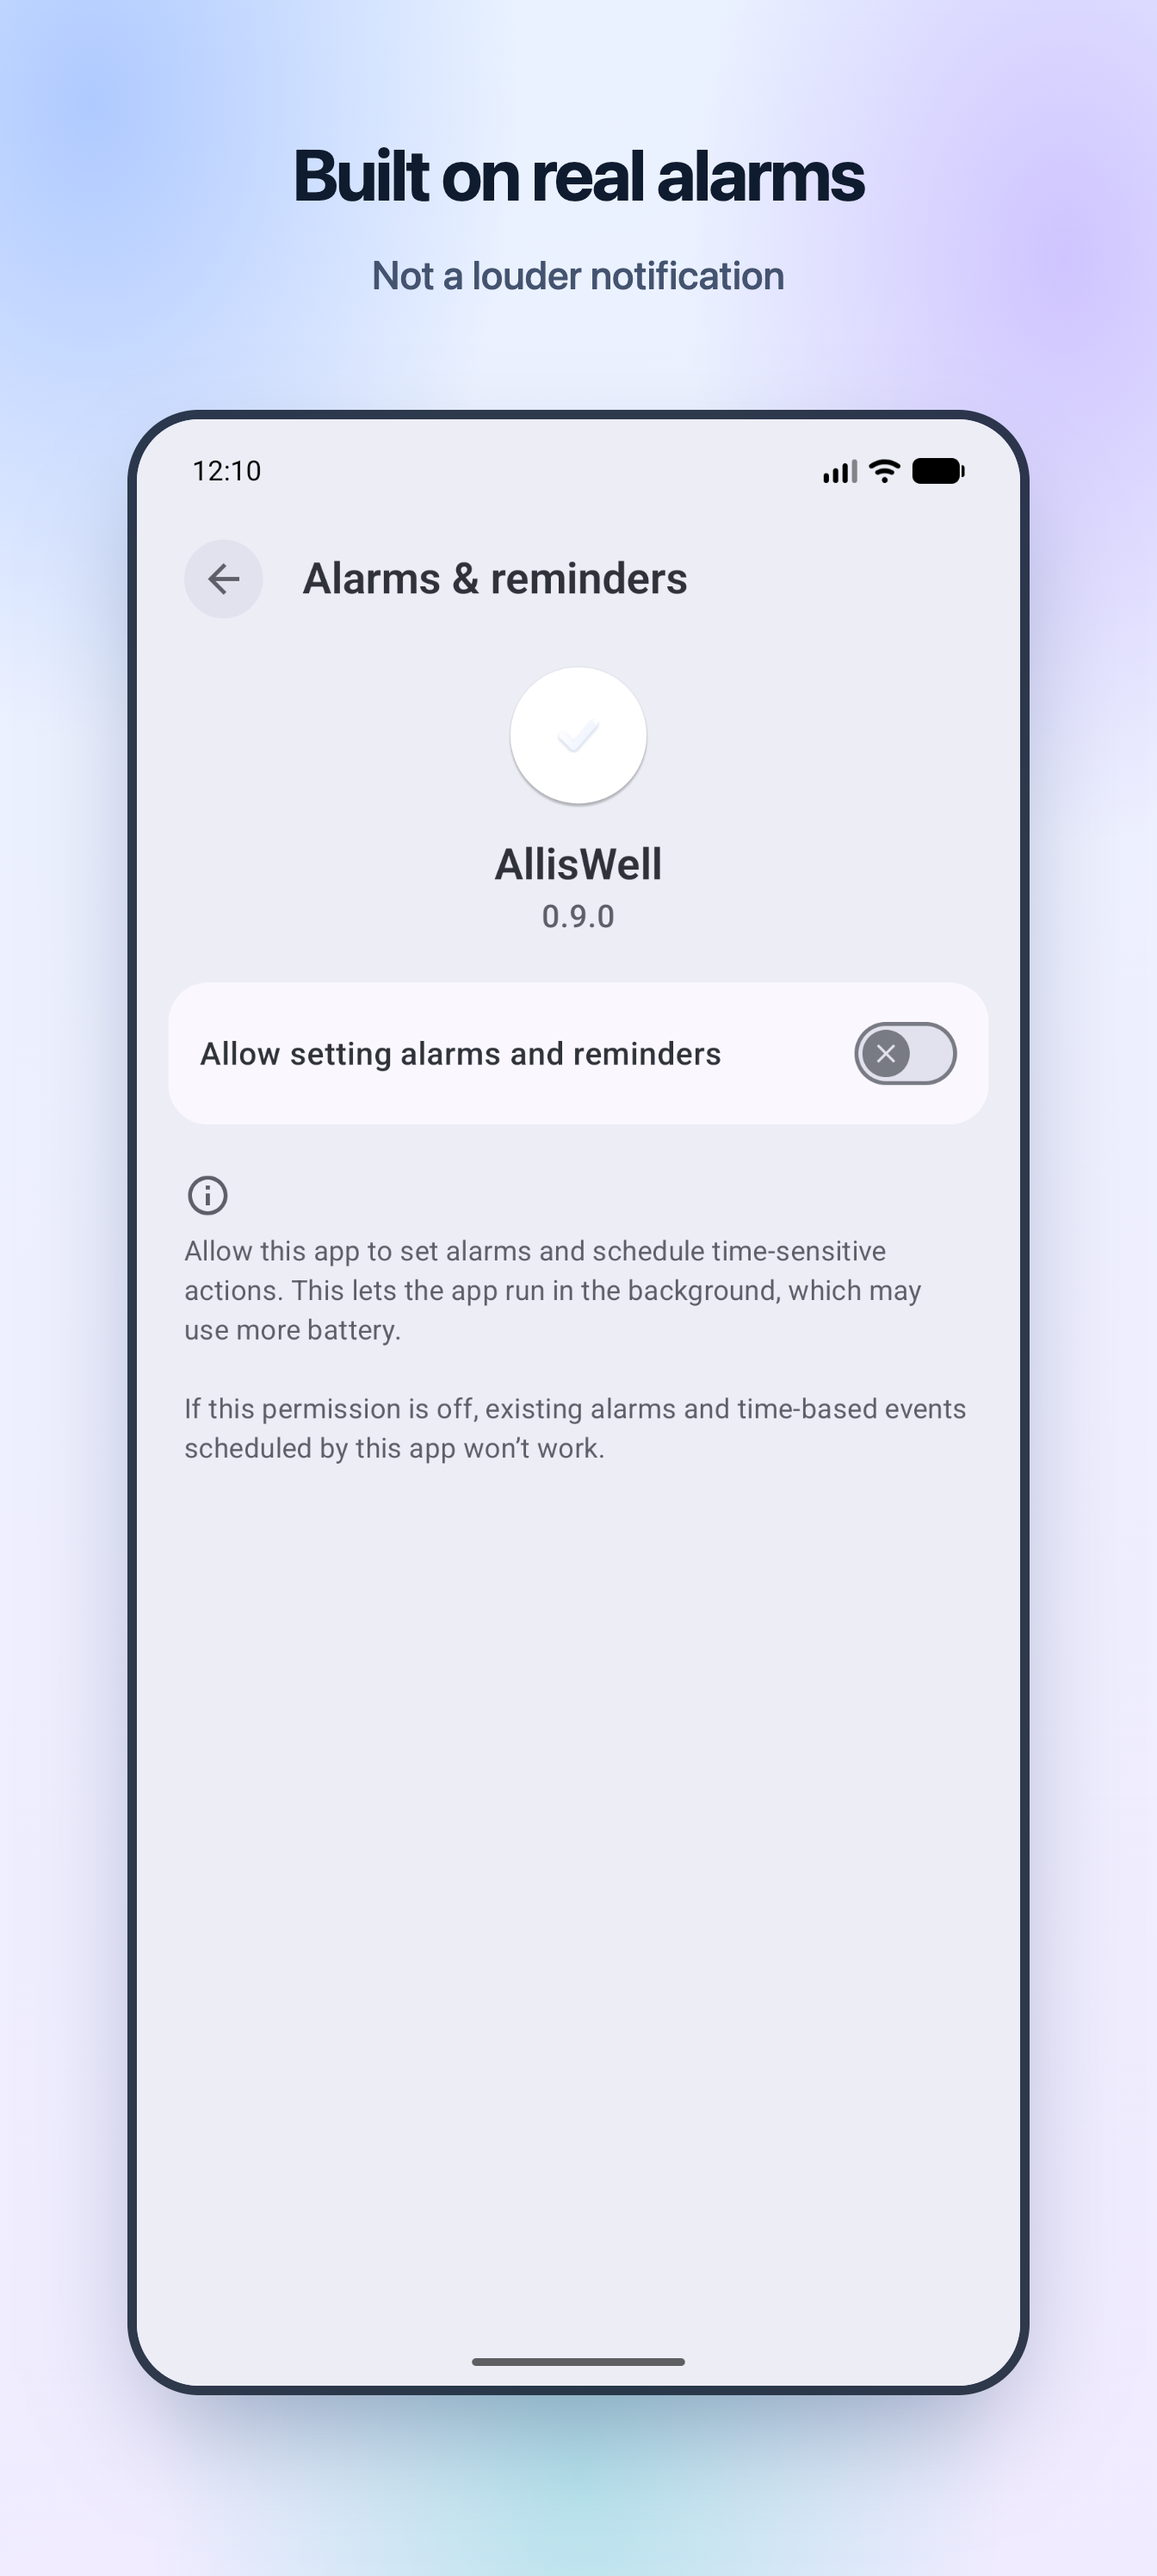
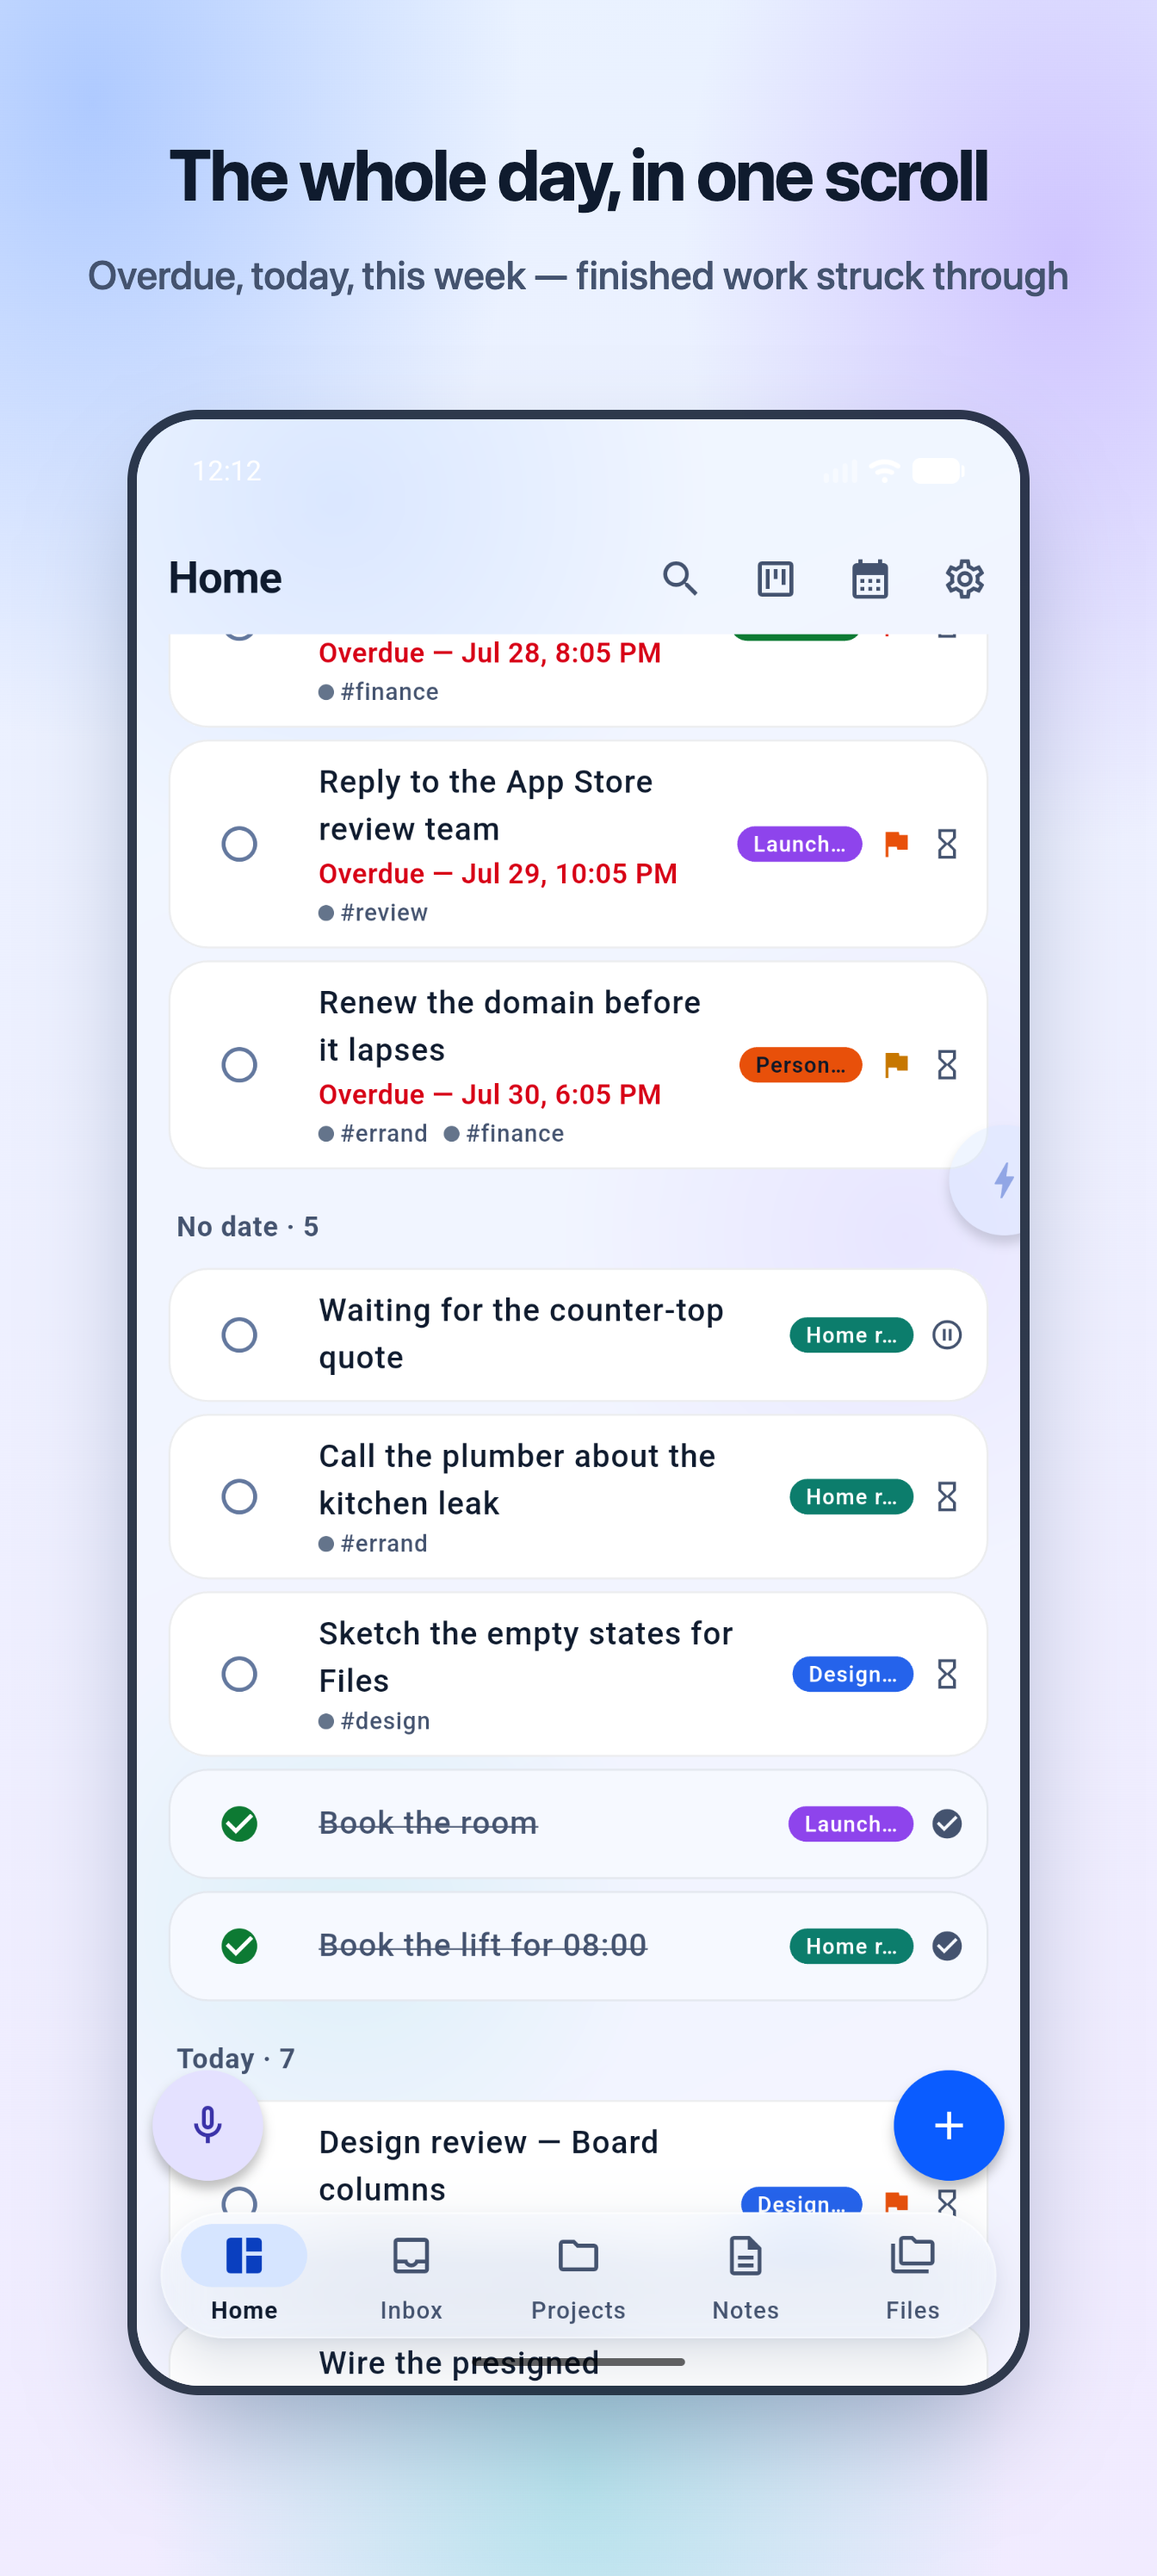
docs: permission dialogs are not product screenshots
The README's alarm section led with three images and two of them were OS
permission screens — iOS asking about alarms, Android's Alarms & reminders
settings page. They show the platform, not the app; a reader learns nothing
about AllisWell from a system dialog. All three are gone from that section, and
the one genuinely good capture — the full-screen alarm actually ringing — moved
into the phone strip, where it replaces a fourth near-identical Home screen.

The same criticism applied to a store slide, which matters more than a README
image: Android's fourth slide was that settings page. It now shows the day's
task list. (The create sheet was tried first and rejected — its capture has the
keyboard up, covering half the frame.)

"Alarms, not notifications" also moves from first to last of the five
differentiators, so the section now opens on recurrence, which proves itself in
a four-line table instead of asking to be believed.

diff --git a/apps/landing/index.html b/apps/landing/index.html
@@ -47,7 +47,7 @@
         "isAccessibleForFree": true,
         "offers": { "@type": "Offer", "price": "0", "priceCurrency": "USD" },
         "description": "Source-available, self-hosted productivity hub: tasks, projects, notes, files, alarm-grade reminders and two-way Google & Apple Calendar sync. Free for personal use.",
-        "softwareVersion": "1.0.2",
+        "softwareVersion": "1.0.3",
         "codeRepository": "https://github.com/mahirozdin/alliswell",
         "publisher": {
           "@type": "Organization",

diff --git a/apps/app/lib/src/core/app_version.dart b/apps/app/lib/src/core/app_version.dart
@@ -7,6 +7,6 @@ import 'package:flutter_riverpod/flutter_riverpod.dart';
 /// It cannot drift: the release workflow refuses to publish a tag unless the
 /// tag, `pubspec.yaml` and this constant all agree — which is exactly the check
 /// the Settings screen's hardcoded "0.1.0" went three releases without.
-const kAppVersion = '1.0.2';
+const kAppVersion = '1.0.3';
 
 final appVersionProvider = Provider<String>((_) => kAppVersion);

diff --git a/apps/landing/src/content.js b/apps/landing/src/content.js
@@ -10,7 +10,7 @@
 export const APP_URL = '/app';
 export const REPO_URL = 'https://github.com/mahirozdin/alliswell';
 export const DOCS_URL = `${REPO_URL}/blob/main/docs`;
-export const VERSION = '1.0.2';
+export const VERSION = '1.0.3';
 
 export const hero = {
   eyebrow: `v${VERSION} · source available · free for personal use`,

diff --git a/README.md b/README.md
@@ -45,7 +45,7 @@ One app for iOS, Android, Web, macOS, Windows &amp; Linux. Your data in your own
 | 🐳 **Self-host** | Live now | One `docker compose up` — [guide below](#-self-hosting-your-server-your-data). |
 | 💻 **Desktop** | Build from source | macOS, Windows and Linux targets build from the same codebase. |
 
-> **Project status — `v1.0.2`, live.** Everything on this page is built, tested
+> **Project status — `v1.0.3`, live.** Everything on this page is built, tested
 > (**748 app tests · 592 backend unit · 58 integration, green**) and deployed to
 > [alliswell.space](https://alliswell.space). Track what's next in
 > [ROADMAP.md](ROADMAP.md) and [docs/STATE.md](docs/STATE.md).
@@ -58,26 +58,7 @@ One app for iOS, Android, Web, macOS, Windows &amp; Linux. Your data in your own
 Everything else here is table stakes. These five are the reasons to switch — and
 each is something the alternatives **cannot** do, not merely haven't yet.
 
-### 1. Alarms, not notifications
-
-A reminder that arrives with a chime is a suggestion. AllisWell's urgent tasks
-ring with a **real alarm sound, through Silent mode and through Focus** (iOS 26
-AlarmKit; Android's `USAGE_ALARM` insistent channel), keep **re-alerting until
-you acknowledge them**, and write a log entry explaining themselves when the OS
-gets in the way.
-
-<p align="center">
-  <img src="screenshots/android/09-alarm-ring.png" width="27%" alt="AllisWell's full-screen alarm on Android: URGENT REMINDER, a task title, an Acknowledge button and snooze presets that each say when they will ring again">
-  &nbsp;
-  <img src="screenshots/ios/alarmkit-permission.png" width="27%" alt="iOS asking to allow AllisWell to schedule alarms that play sounds and appear on screen even when a Focus is active">
-  &nbsp;
-  <img src="screenshots/android/11-alarm-permission.png" width="27%" alt="Android's Alarms and reminders permission screen for AllisWell">
-</p>
-
-<p align="center"><em>Left: the ring screen, with snooze presets that tell you the exact time they will ring again.<br>
-Middle &amp; right: the OS-level permissions this is actually built on — not a louder notification.</em></p>
-
-### 2. Recurrence that doesn't lie
+### 1. Recurrence that doesn't lie
 
 Ask for **the 31st** and RFC 5545 — which is what Google Calendar follows —
 simply **skips** every month without one. Your rent does not skip February.
@@ -102,7 +83,7 @@ rows** (so they show up in search, the calendar and the widget), and an
   <img src="screenshots/ios/08-repeat-dialog.png" width="31%" alt="The Repeat dialog with a Next 5 preview listing the exact upcoming dates">
 </p>
 
-### 3. True two-way calendar sync, to both ecosystems
+### 2. True two-way calendar sync, to both ecosystems
 
 Not an ICS subscription and not a one-way import. Your tasks become **real
 Google Calendar events**; edits you make in Google **come back** through push
@@ -110,14 +91,14 @@ webhooks, incremental sync and etag-based conflict resolution; and your other
 Google events appear **on Home, next to your tasks**. Apple Calendar goes
 through an **EventKit** bridge. Things 3 reads your calendar — it never writes.
 
-### 4. One codebase, six platforms, offline-first
+### 3. One codebase, six platforms, offline-first
 
 A local SQLite replica, a mutation outbox and a revision log mean **everything
 works with the network off** — create, edit, complete, search — and lands on
 every other device within a round-trip when it comes back. Apple's tools are
 Apple-only. Google's need the network more than they admit.
 
-### 5. AI on your terms — including none
+### 4. AI on your terms — including none
 
 **Add AllisWell to the Claude or ChatGPT subscription you already pay for**
 (it is a remote MCP server), or **bring your own key** — Anthropic, OpenAI,
@@ -128,6 +109,16 @@ confirmation; **deletion is closed to AI permanently**; and capture works with
 only the text does.
 
 [How AI works →](docs/AI.md) &nbsp;·&nbsp; [Set up the MCP connector →](docs/MCP.md)
+
+### 5. Alarms, not notifications
+
+A reminder that arrives with a chime is a suggestion. AllisWell's urgent tasks
+ring with a **real alarm sound, through Silent mode and through Focus** (iOS 26
+AlarmKit; Android's `USAGE_ALARM` insistent channel), keep **re-alerting until
+you acknowledge them**, and offer snooze presets that each tell you the exact
+time they will ring again. When the OS gets in the way — a battery manager, a
+revoked permission — the app writes a log entry explaining itself, so
+"it didn't ring" is a question with an answer.
 
 ---
 
@@ -161,10 +152,10 @@ only the text does.
   &nbsp;
   <img src="screenshots/android/01-home.png" width="23%" alt="AllisWell Home on Android">
   &nbsp;
-  <img src="screenshots/android/10-home-dark.png" width="23%" alt="AllisWell Home on Android in dark mode">
+  <img src="screenshots/android/09-alarm-ring.png" width="23%" alt="AllisWell's full-screen urgent reminder on Android: an Acknowledge button and snooze presets that each say the exact time they will ring again">
 </p>
 
-<p align="center"><sub>iPhone 17 Pro Max · Pixel 9 Pro XL · light and dark · every one a real capture from a running app, not a mock-up.<br>
+<p align="center"><sub>iPhone 17 Pro Max · Pixel 9 Pro XL · light, dark, and an alarm actually going off · every one a real capture from a running app, not a mock-up.<br>
 How they are produced: <a href="docs/SCREENSHOTS.md">docs/SCREENSHOTS.md</a></sub></p>
 
 ---
@@ -177,16 +168,16 @@ How they are produced: <a href="docs/SCREENSHOTS.md">docs/SCREENSHOTS.md</a></su
 - 🗂 **Projects** — colours, favourites, archiving, a Notion-style README note as the overview, and per-project Tasks / Notes / Files tabs.
 - 🏷 **Tags &amp; priorities** — type `#tags` inline (auto-create, colours, fold-matched suggestions) and set `none → urgent` priority. Subtasks and checklists inside a task.
 - 🔔 **Alarm-grade reminders** — exact-minute delivery, **urgent alarms through Silent mode &amp; Focus**, a re-alert-until-acknowledged chain you can tune, snooze presets (5 m / 30 m / 1 h / tomorrow / custom) that each say when they'll ring, **mute one task's alarms** without completing it, your own ringtone, an **alarm log**, and a privacy mode that hides task content on the lock screen.
-- 🔁 **Recurring tasks that survive a short month** — see [§2 above](#2-recurrence-that-doesnt-lie).
+- 🔁 **Recurring tasks that survive a short month** — see [§1 above](#1-recurrence-that-doesnt-lie).
 - 🔎 **Instant search** — case- **and accent-insensitive** across the Latin alphabets ("muller" finds _Müller_, "cafe" finds _café_), ranked title → tag → body, running locally over the on-device replica, so it works **offline**. The folding is the app's own, so results never depend on your database's collation.
 - 📝 **Notes &amp; documents** — rich-text (Quill Delta) notes with inline images/video, links to tasks and projects, pin/archive, card grid or list, and Markdown export.
-- 📅 **True two-way calendar sync** — see [§3 above](#3-true-two-way-calendar-sync-to-both-ecosystems). Every task is on the calendar, and it is **not a setting**.
+- 📅 **True two-way calendar sync** — see [§2 above](#2-true-two-way-calendar-sync-to-both-ecosystems). Every task is on the calendar, and it is **not a setting**.
 - 📎 **Attachments &amp; Files** — attach any file to tasks, notes and projects, plus a global **Files** section with nestable folders — stored in **Cloudflare R2 / any S3** via presigned URLs (the API never proxies your bytes).
 - 🔄 **Local-first realtime sync** — offline by default: a mutation outbox, a revision log, idempotent push with field-level last-write-wins, and a Socket.IO channel that fans changes to every device within a round-trip.
 - ✅ **Finish things visibly** — a completed task stays on today's list, struck through and calm, until the next midnight; everything older lives in **Settings ▸ Completed**, a day-headed timeline you can scroll back through.
 - 🗑 **Delete like you expect** — swipe a row from the right, it half-opens, and the red **Delete** is what deletes. Tasks, notes, projects and files, with an **Undo** that works by not having written anything yet.
 - ⚡ **Quick access** — a personal shortcut list for the projects, tasks, notes, folders, files and links you actually live in, with your own emoji, colour and order. A **sidebar section** on desktop and web, a popover on narrow windows, and a **draggable floating button** on phones. Yours alone: shortcuts never leak to other members of a shared workspace.
-- 🤖 **AI, on your terms (optional)** — see [§5 above](#5-ai-on-your-terms--including-none).
+- 🤖 **AI, on your terms (optional)** — see [§4 above](#4-ai-on-your-terms--including-none).
 - 🖥 **Home-screen widgets** — iOS, Android &amp; macOS widgets that mirror your Home buckets, show **how many tasks today actually holds**, and (iOS 17+/Android) let you tick one off **without opening the app** (device QA pending).
 - 🌐 **Localisation** — ships in English and Turkish, auto-detected from your system; adding a language is dropping in one JSON file.
 - 🔓 **Self-hosted &amp; private** — your MySQL, your server, one `docker compose up`. Free for personal use ([licence](#-licence--commercial-use)).

diff --git a/CHANGELOG.md b/CHANGELOG.md
@@ -5,6 +5,23 @@ Format: [Keep a Changelog](https://keepachangelog.com/en/1.1.0/) • Versioning:
 
 ## [Unreleased]
 
+## [1.0.3] - 2026-07-31
+
+### Changed
+
+- **Permission dialogs are not product screenshots.** The README's alarm section
+  led with three images, two of which were OS permission screens — they show the
+  platform, not the app, and a reader learns nothing from them. All three are
+  gone from that section; the one genuinely good capture (the full-screen alarm
+  actually ringing) moved into the phone strip, where it replaces a fourth
+  near-identical Home screen.
+- The same criticism applied to a **store slide**, which is more consequential
+  than a README image: Android's fourth slide was the "Alarms & reminders"
+  settings screen. It now shows the day's task list.
+- "Alarms, not notifications" moved from first to last of the five
+  differentiators, so the section opens on recurrence — the one with a table
+  that proves itself in four lines.
+
 ## [1.0.2] - 2026-07-31
 
 ### Changed
